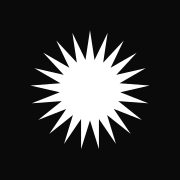
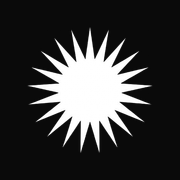
Use the original sun artwork and show each email only where needed
Sun
- Replace the redrawn vector sun with the original Black_Sun.png and
  White_Sun.png: the footer mark switches between them with the colour
  scheme, and the favicon and app icons use the white sun on a black
  tile. The vector sun and favicon.svg are removed.

Email addresses
- Remove the contact directory. The Contact section shows the main
  address (contact@) with a copy button, and one line for press@.
- privacy@, legal@ and careers@ stay only in the privacy policy and
  terms; hello@ is not shown on the site.
- Remove the duplicate contact@ from the About facts and the mobile
  menu; structured data lists only the addresses visible on the page.

Claude-Session: https://claude.ai/code/session_01KBBHZvrbeW3Uqd7RrncA8Y

diff --git a/src/site.ts b/src/site.ts
@@ -11,14 +11,6 @@ export interface NavLink {
   external?: boolean;
 }
 
-export interface ContactRoute {
-  label: string;
-  description: string;
-  email: string;
-  /** Schema.org ContactPoint type, used in the homepage structured data. */
-  contactType: string;
-}
-
 export interface SiteConfig {
   name: string;
   /** Name used in legal documents. Update when the company is registered. */
@@ -28,13 +20,13 @@ export interface SiteConfig {
   tagline: string;
   title: string;
   description: string;
-  /** Official addresses. `contact` is the main one, used wherever a single address is shown. */
+  /**
+   * Addresses shown on the site. privacy@, legal@ and careers@ appear only in the
+   * legal pages (src/pages/*.md), where they are written out.
+   */
   emails: {
+    /** Main contact: shown in the Contact section and used for security reports. */
     contact: string;
-    hello: string;
-    privacy: string;
-    legal: string;
-    careers: string;
     press: string;
   };
   products: Product[];
@@ -58,54 +50,10 @@ export const site: SiteConfig = {
     'Zagrosian is an independent technology company building software for Kurdish communities worldwide, including Hevalo, a community platform for Kurdish people.',
   emails: {
     contact: 'contact@zagrosian.com',
-    hello: 'hello@zagrosian.com',
-    privacy: 'privacy@zagrosian.com',
-    legal: 'legal@zagrosian.com',
-    careers: 'careers@zagrosian.com',
     press: 'press@zagrosian.com',
   },
   products: [hevalo],
 };
-
-/** The contact directory on the homepage, in display order. */
-export const contactRoutes: ContactRoute[] = [
-  {
-    label: 'Business and partnerships',
-    description: 'Our main address for companies and organisations.',
-    email: site.emails.contact,
-    contactType: 'business inquiries',
-  },
-  {
-    label: 'General questions',
-    description: 'Anything else you would like to ask or tell us.',
-    email: site.emails.hello,
-    contactType: 'general inquiries',
-  },
-  {
-    label: 'Press',
-    description: 'Media, interviews and press enquiries.',
-    email: site.emails.press,
-    contactType: 'press',
-  },
-  {
-    label: 'Careers',
-    description: 'Jobs and working at Zagrosian.',
-    email: site.emails.careers,
-    contactType: 'careers',
-  },
-  {
-    label: 'Privacy',
-    description: 'Questions about your data, and data protection requests.',
-    email: site.emails.privacy,
-    contactType: 'privacy',
-  },
-  {
-    label: 'Legal',
-    description: 'Legal notices and matters.',
-    email: site.emails.legal,
-    contactType: 'legal',
-  },
-];
 
 export const primaryNav: NavLink[] = [
   { label: 'Hevalo', href: '/#hevalo' },

diff --git a/README.md b/README.md
@@ -23,16 +23,16 @@ Requires Node 22.12 or later.
 ## Editing content
 
 - [`src/site.ts`](src/site.ts): company name, country, title, description, products, the email
-  addresses and the contact directory shown on the homepage:
+  addresses shown on the homepage. Each address appears only where it is needed:
 
-  | Address                 | Used for                                        |
-  | ----------------------- | ----------------------------------------------- |
-  | `contact@zagrosian.com` | Main contact: business, partnerships, security |
-  | `hello@zagrosian.com`   | General questions                               |
-  | `press@zagrosian.com`   | Media and press                                 |
-  | `careers@zagrosian.com` | Jobs and applications                           |
-  | `privacy@zagrosian.com` | Privacy questions and data requests             |
-  | `legal@zagrosian.com`   | Legal matters                                   |
+  | Address                 | Where it appears                                       |
+  | ----------------------- | ------------------------------------------------------ |
+  | `contact@zagrosian.com` | Contact section, security policy and `security.txt`   |
+  | `press@zagrosian.com`   | Contact section (one line for journalists)             |
+  | `privacy@zagrosian.com` | Privacy policy                                         |
+  | `legal@zagrosian.com`   | Terms of use                                           |
+  | `careers@zagrosian.com` | Privacy policy (job applications); add it to a careers page when you have one |
+  | `hello@zagrosian.com`   | Not on the site                                        |
 
 - [`src/components/`](src/components/): homepage sections.
 - [`src/pages/privacy.md`](src/pages/privacy.md), [`terms.md`](src/pages/terms.md) and
@@ -62,8 +62,9 @@ src/
   16-colour PNGs at 96–960 px wide (`griffin-*.png`), which for black line art are smaller than WebP or
   AVIF. To regenerate a variant:
   `node -e "require('sharp')('src/assets/brand/griffin-source.png').resize({ width: 480 }).png({ palette: true, colours: 16, dither: 0 }).toFile('src/assets/brand/griffin-480.png')"`
-- **Sun** (`src/assets/brand/sun.svg`, drawn by `src/components/Sun.astro`): the 21-ray sun, used for
-  the favicon and app icons, where the griffin is too detailed to read.
+- **Sun** (`src/assets/brand/sun-black-source.png` and `sun-white-source.png`): the 21-ray sun. The
+  footer mark uses the black version on light backgrounds and the white version in dark mode
+  (`sun-*-64.png`, cropped to the sun). The favicon and app icons show the white sun on a black tile.
 
 The site follows the visitor's light or dark system setting. Colours are tokens in
 `src/styles/global.css`; line art is inverted on dark surfaces.
@@ -121,7 +122,7 @@ Recommended settings outside the code:
 
 - **Cloudflare:** enable DNSSEC, set SSL/TLS to *Full (strict)*, turn on *Always Use HTTPS*, set the
   minimum TLS version to 1.2, and add CAA records for the certificate authorities you use.
-- **Email:** make sure all six addresses receive mail (for example with Cloudflare Email Routing), and
+- **Email:** make sure all six addresses receive mail, including the ones not shown on the site, (for example with Cloudflare Email Routing), and
   add SPF, DKIM and DMARC records so nobody can send email pretending to be zagrosian.com.
 - **Accounts:** use two-factor authentication on Cloudflare, GitHub and your domain registrar, and
   enable the registrar lock.
